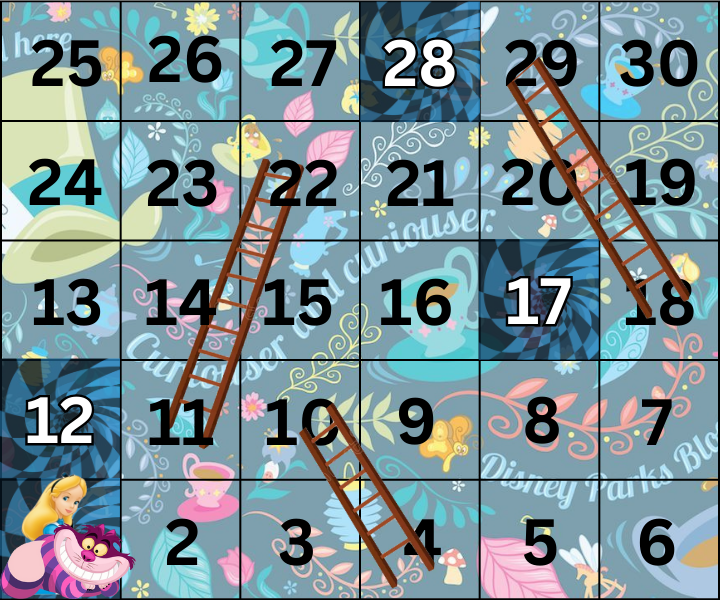
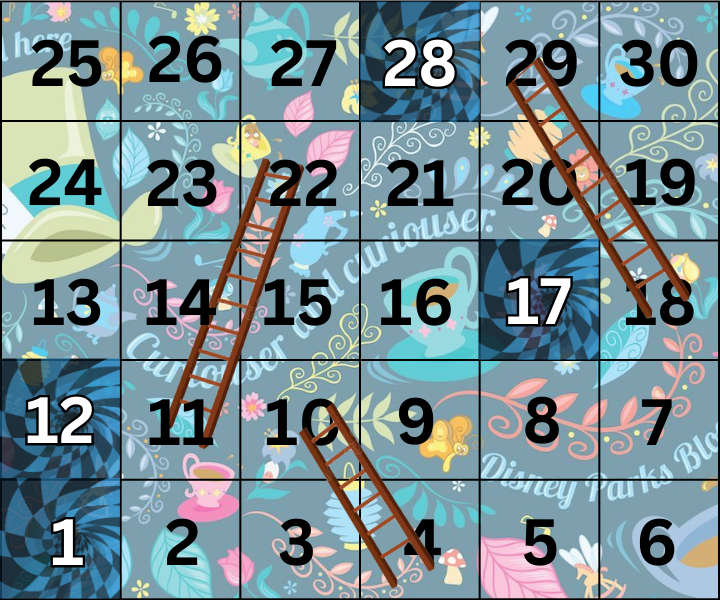
adding the side panel to the board game

Changed region(s): [[0.0, 0.78, 0.1833, 1.0]]

diff --git a/Naomi/main.py b/Naomi/main.py
@@ -7,56 +7,25 @@ pygame.init()
 # Constants
 WIDTH = 800
 HEIGHT = 600
-BOARD_SIZE = 10  # 10x10 board
-SQUARE_SIZE = WIDTH // BOARD_SIZE
 SIDE_PANEL_WIDTH = 200
 DICE_SIZE = 50
 
-# Colors
-WHITE = (255, 255, 255)
-BLACK = (0, 0, 0)
-GREEN = (0, 128, 0)
-RED = (255, 0, 0)
-BLUE = (0, 0, 255)
-LIGHT_GRAY = (211, 211, 211)
+# Colors (for other elements like side panel)
+PINK = (252, 116, 183)
 
 # Initialize screen
 screen = pygame.display.set_mode((WIDTH + SIDE_PANEL_WIDTH, HEIGHT))
 pygame.display.set_caption("Snakes and Ladders")
 
 # Load images
-background_image = pygame.image.load("Alice-In-Wonderland_Board_Game.png")  # Replace with your background image file
-background_image = pygame.transform.scale(background_image, (WIDTH + SIDE_PANEL_WIDTH, HEIGHT))  # Resize to fit the screen
-dice_images = [pygame.image.load(f"dice_{i}.png") for i in range(1, 7)]  # Images for dice 1 to 6
+background_image = pygame.image.load("Alice-In-Wonderland_Board_Game.png")  # Replace with your board image file
+background_image = pygame.transform.scale(background_image, (WIDTH, HEIGHT))  # Resize to fit the screen
+dice_images = [pygame.image.load(f"Images/dice_{i}.png") for i in range(1, 7)]  # Images for dice 1 to 6
 dice_rect = dice_images[0].get_rect(center=(WIDTH + SIDE_PANEL_WIDTH // 2, HEIGHT // 2))  # Place dice in the center of side panel
-
-# Function to draw the board
-def draw_board():
-    for row in range(BOARD_SIZE):
-        for col in range(BOARD_SIZE):
-            x = col * SQUARE_SIZE
-            y = row * SQUARE_SIZE
-            rect = pygame.Rect(x, y, SQUARE_SIZE, SQUARE_SIZE)
-            if (row + col) % 2 == 0:
-                pygame.draw.rect(screen, LIGHT_GRAY, rect)
-            else:
-                pygame.draw.rect(screen, WHITE, rect)
-            pygame.draw.rect(screen, BLACK, rect, 2)
-
-            # Add square number (1 to 100)
-            num = row * BOARD_SIZE + col + 1
-            font = pygame.font.SysFont("Arial", 24)
-            text = font.render(str(num), True, BLACK)
-            text_rect = text.get_rect(center=rect.center)
-            screen.blit(text, text_rect)
-
-# Function to roll the dice
-def roll_dice():
-    return random.randint(1, 6)
 
 # Function to draw the side panel with dice
 def draw_side_panel(dice_roll):
-    pygame.draw.rect(screen, BLUE, pygame.Rect(WIDTH, 0, SIDE_PANEL_WIDTH, HEIGHT))  # Side panel background
+    pygame.draw.rect(screen, PINK, pygame.Rect(WIDTH, 50, SIDE_PANEL_WIDTH, HEIGHT))  # Side panel background
     screen.blit(dice_images[dice_roll - 1], dice_rect.topleft)  # Draw dice based on roll
 
 # Main game loop
@@ -64,17 +33,8 @@ def main():
     running = True
     player_pos = 1  # Player starts at square 1
     while running:
-        screen.fill(GREEN)  # Fill the screen with green (for the board background)
-
-        # Draw the background image
-        screen.blit(background_image, (0, 0))  # Draw background image
-
-        # Draw board
-        draw_board()
-
-        # Draw the side panel and dice
-        dice_roll = roll_dice()  # Random dice roll (for demo purposes)
-        draw_side_panel(dice_roll)
+        # Draw the background image (board)
+        screen.blit(background_image, (0, 0))  # Draw the board image
 
         # Handle events
         for event in pygame.event.get():

diff --git a/Naomi/dice.py b/Naomi/dice.py
@@ -1,0 +1,58 @@
+import pygame
+import random
+
+
+# Initialize pygame
+pygame.init()
+
+# Set up display
+screen_width, screen_height = 500, 500
+screen = pygame.display.set_mode((screen_width, screen_height))
+pygame.display.set_caption("Roll the Dice")
+
+# Load dice images (ensure these images are in the same folder as your script)
+# Load and resize dice images
+dice_images = [
+    pygame.transform.scale(pygame.image.load(f'dice{i}.png'), (100, 100)) for i in range(1, 7)
+]
+
+
+# Define some colors
+WHITE = (255, 255, 255)
+
+
+# Function to simulate dice roll with animation
+def roll_dice_animation():
+    roll_count = 10  # Number of frames in the roll animation
+    for _ in range(roll_count):
+        # Display random dice face during the animation
+        random_face = random.choice(dice_images)
+        screen.fill(WHITE)  # Clear the screen
+        screen.blit(random_face, (100, 100))
+        pygame.display.update()
+        pygame.time.delay(50)  # Short delay to simulate animation
+
+    # Final roll result
+    roll_result = random.randint(1, 6)
+    screen.fill(WHITE)
+    screen.blit(dice_images[roll_result - 1], (100, 100))
+    pygame.display.update()
+    return roll_result
+
+
+# Main game loop
+running = True
+while running:
+    for event in pygame.event.get():
+        if event.type == pygame.QUIT:
+            running = False
+        elif event.type == pygame.KEYDOWN:
+            if event.key == pygame.K_SPACE:
+                # Trigger dice roll animation on space bar press
+                result = roll_dice_animation()
+                print(f"You rolled a {result}")
+
+    pygame.display.update()
+
+# Quit pygame
+pygame.quit()

diff --git a/Naomi/board-game.py b/Naomi/board-game.py
@@ -10,7 +10,7 @@ SCREEN_HEIGHT = 600
 
 # Set up the display
 screen = pygame.display.set_mode((SCREEN_WIDTH, SCREEN_HEIGHT))
-pygame.display.set_caption("Board Game")
+pygame.display.set_caption("Snakes and Ladders")
 
 # Load the background image
 background = pygame.image.load("Alice-In-Wonderland_Board_Game.png")
